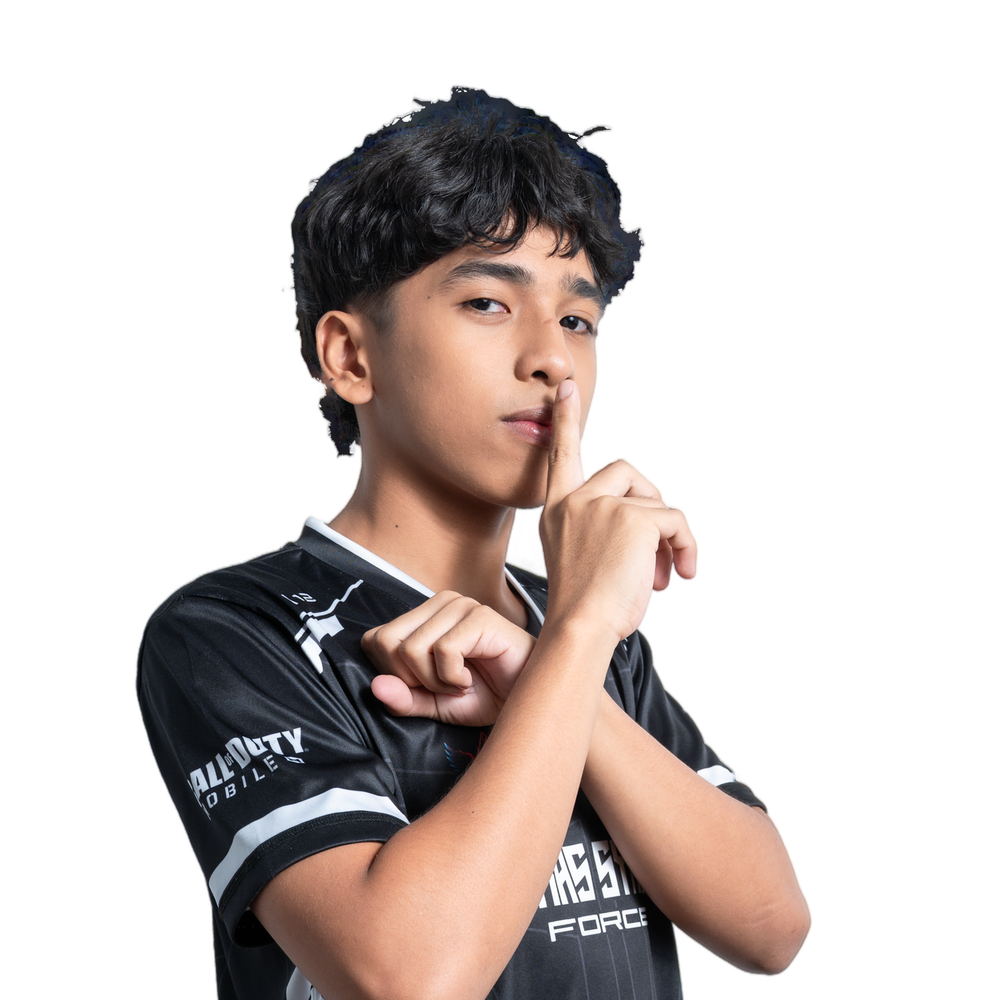
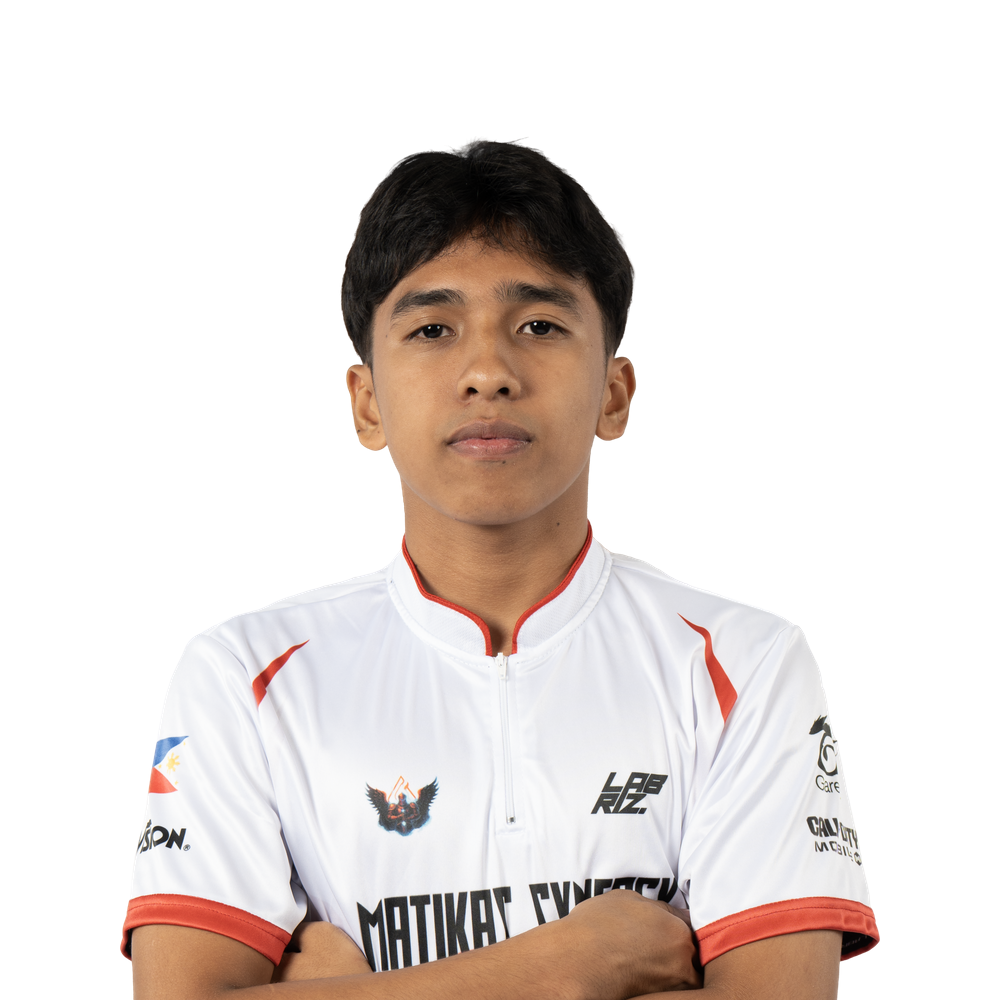
udpated player m12

diff --git a/html/Fullscreen.html b/html/Fullscreen.html
@@ -13473,7 +13473,7 @@
 
     /* /photos/VICTORY/<team name>/<player name>.png (falls back to FRONT if a team has no VICTORY pose) */
     function mwnPhotoUrl(team, name, pose) {
-      return '/photos/' + (pose || 'VICTORY') + '/' + encodeURIComponent(team) + '/' + encodeURIComponent(name) + '.png?v=20261106b'; /* ?v= busts the 1-day image cache; bump when photos are re-cut */
+      return '/photos/' + (pose || 'VICTORY') + '/' + encodeURIComponent(team) + '/' + encodeURIComponent(name) + '.png?v=20261106c'; /* ?v= busts the 1-day image cache; bump when photos are re-cut */
     }
 
     let mwnPhotoSeq = 0; /* newest render wins if the live poll re-renders mid-load */

diff --git a/html/ledoverlay.html b/html/ledoverlay.html
@@ -821,7 +821,7 @@ function liApply(t) {
   }
 }
 
-const LI_PHOTO_V = '20261106e';
+const LI_PHOTO_V = '20261106f';
 
 /* Marquee: one text unit repeated enough times to cover the strip twice over, so the loop is seamless. */
 const LI_MQ_TEXT = 'FIRST TO LAND - LAST TO STAND - ';
